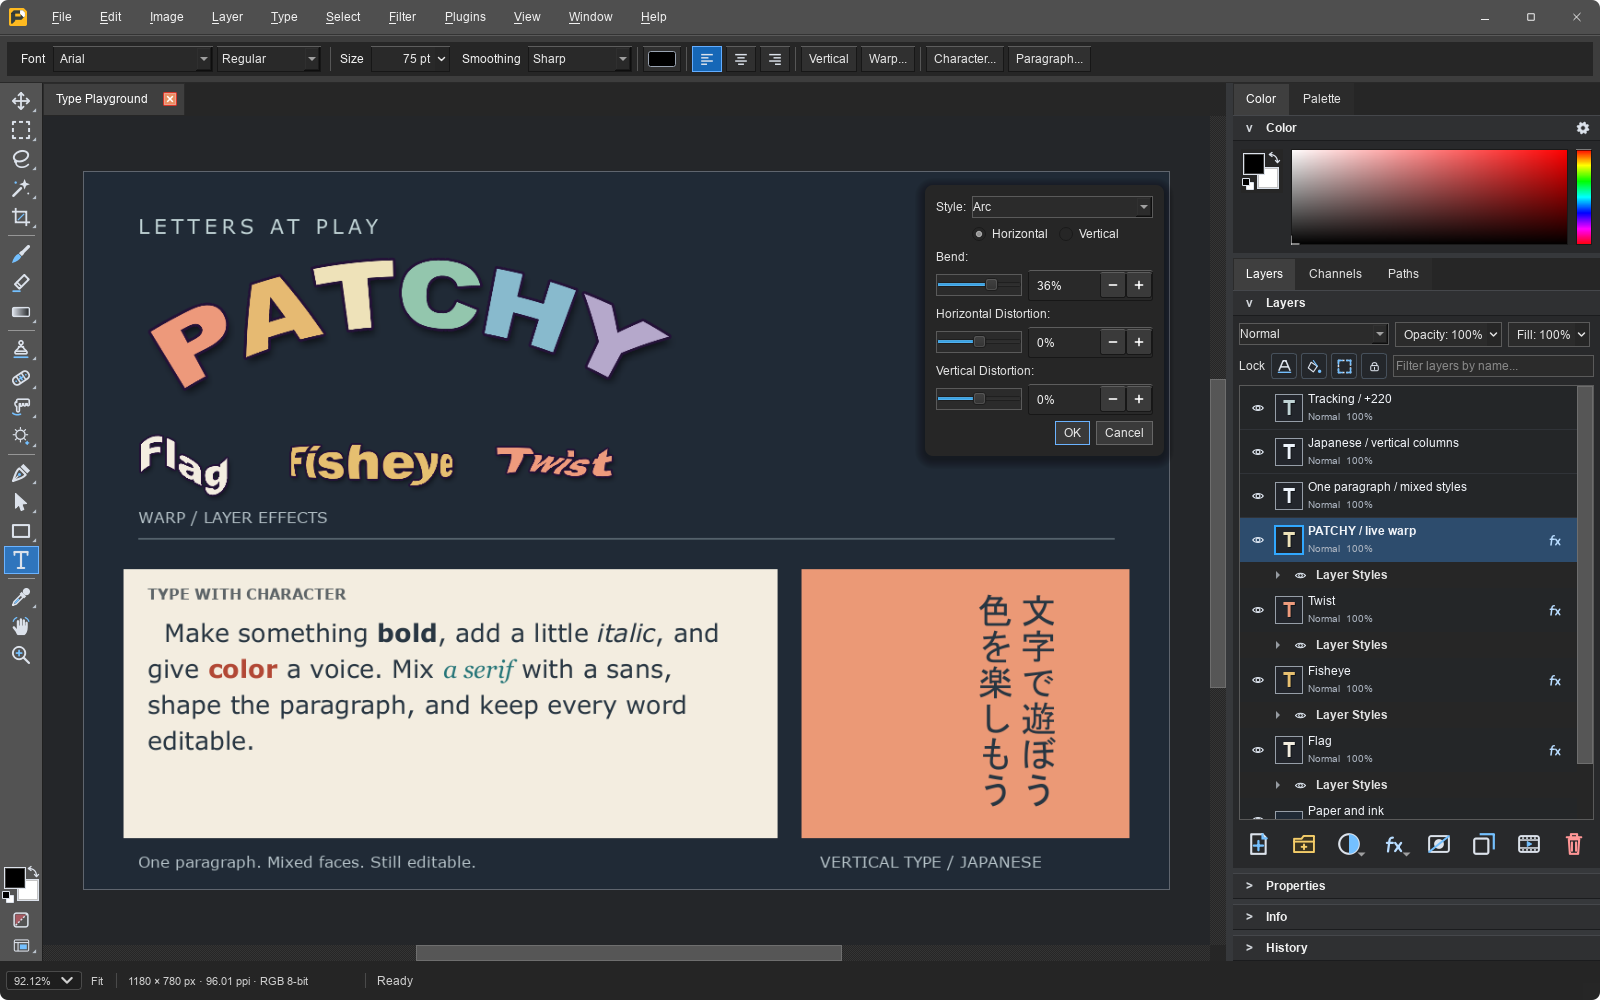
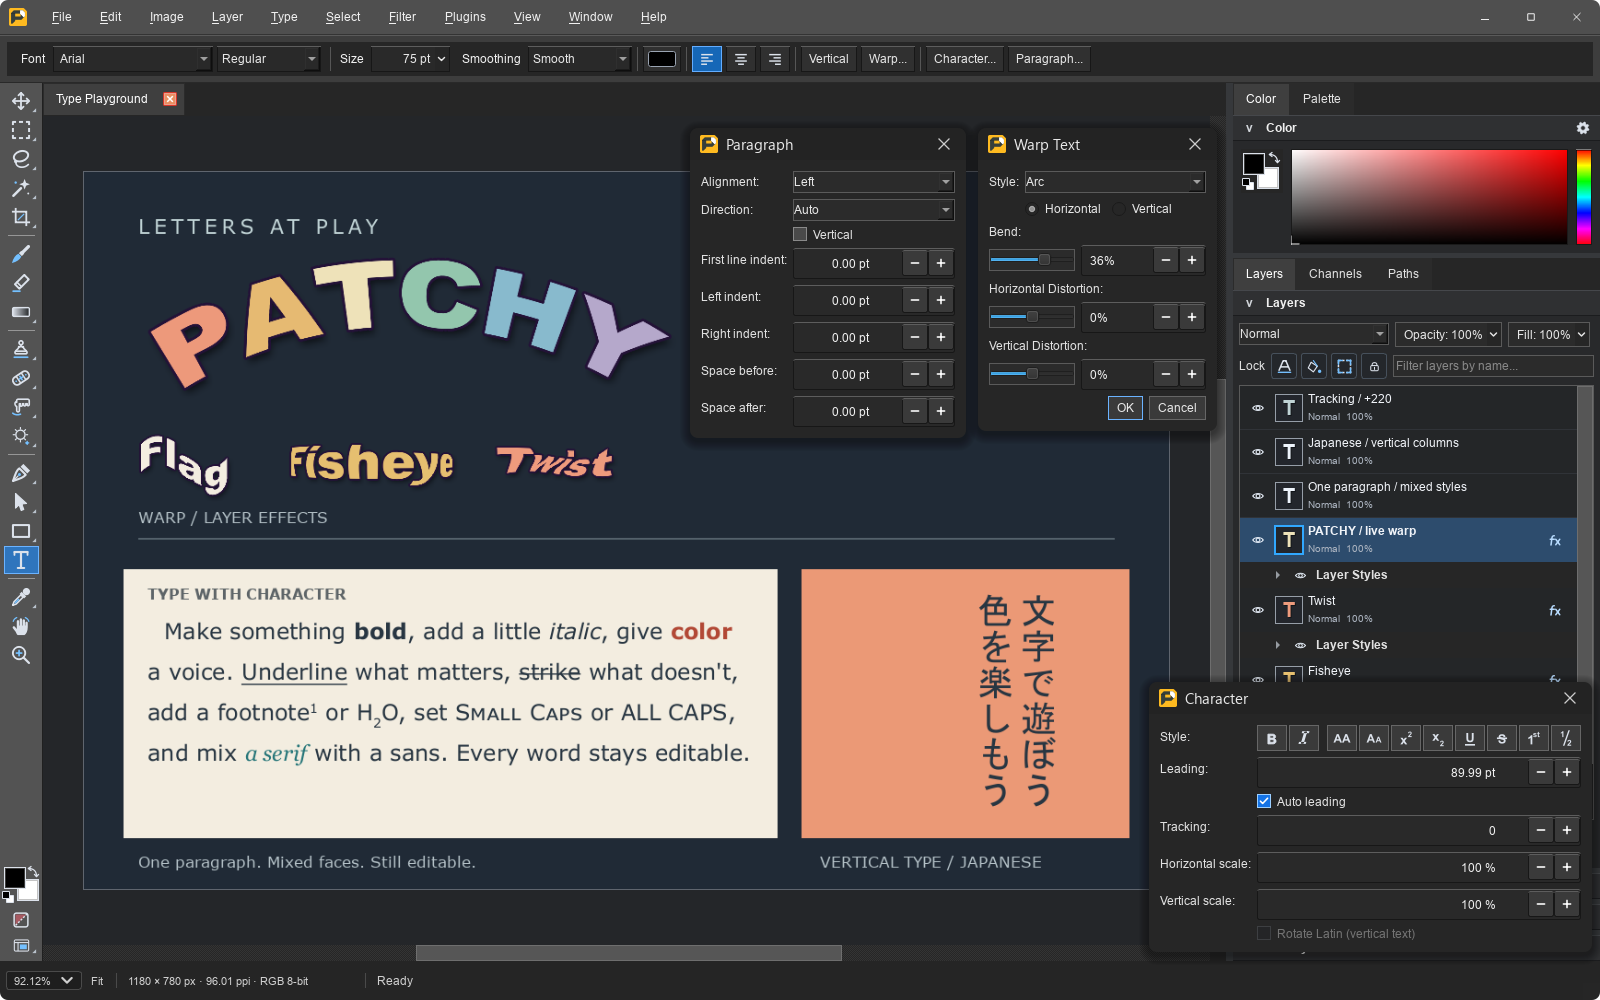
Text showcase: Character and Paragraph panels beside Warp Text, plus underline, strikethrough, scripts and caps

diff --git a/tests/ui/readme_screenshot_tests_classic.cpp b/tests/ui/readme_screenshot_tests_classic.cpp
@@ -46,6 +46,7 @@
 #include <QDoubleSpinBox>
 #include <QFont>
 #include <QFontDatabase>
+#include <QIcon>
 #include <QImage>
 #include <QLabel>
 #include <QLineEdit>
@@ -1052,8 +1053,36 @@ void shot_readme_long_shadow() {
   CHECK(captured);
 }
 
-// Live typography specimen: warped type, mixed-run paragraph text, tracking,
-// and real Japanese vertical columns, with the Warp Text controls visible.
+// A natively framed dialog grabs without its title bar, which the desktop draws. Adds the
+// dark caption Windows shows for Patchy's dialogs (app icon, title, close glyph) so the
+// overlay reads as the window people see.
+QImage readme_captioned_dialog(QWidget& dialog, const QIcon& icon) {
+  constexpr int kCaption = 32;
+  const auto content = dialog.grab().toImage();
+  QImage framed(content.width(), content.height() + kCaption, QImage::Format_ARGB32_Premultiplied);
+  const auto background = content.pixelColor(4, 4);
+  framed.fill(background.darker(108));
+  QPainter painter(&framed);
+  painter.setRenderHint(QPainter::Antialiasing, true);
+  painter.drawImage(0, kCaption, content);
+  painter.drawPixmap(10, (kCaption - 18) / 2, icon.pixmap(18, 18));
+  QFont title(QStringLiteral("Segoe UI"));
+  title.setPixelSize(15);
+  painter.setFont(title);
+  painter.setPen(QColor(232, 232, 232));
+  painter.drawText(QRect(36, 0, framed.width() - 80, kCaption), Qt::AlignVCenter | Qt::AlignLeft,
+                   dialog.windowTitle());
+  painter.setPen(QPen(QColor(205, 205, 205), 1.3));
+  const QPointF close(framed.width() - 22.0, kCaption / 2.0);
+  painter.drawLine(close + QPointF(-5, -5), close + QPointF(5, 5));
+  painter.drawLine(close + QPointF(-5, 5), close + QPointF(5, -5));
+  painter.end();
+  return framed;
+}
+
+// Live typography specimen: warped type, mixed-run paragraph text with the Character
+// panel's styles, tracking, and real Japanese vertical columns, with the Warp Text dialog
+// and the Character and Paragraph panels open.
 void shot_readme_warp_text() {
   for (const auto role : {patchy::test::TestFontRole::ArialBlack, patchy::test::TestFontRole::UiDefault,
                           patchy::test::TestFontRole::Verdana, patchy::test::TestFontRole::Georgia,
@@ -1110,30 +1139,47 @@ void shot_readme_warp_text() {
   std::string paragraph_text;
   std::vector<patchy::psd::PsdTextStyleRun> paragraph_runs;
   const auto append_run = [&](const char* text, bool bold = false, bool italic = false,
-                               patchy::RgbColor color = {0x28, 0x36, 0x42}, const char* family = "Verdana") {
+                               patchy::RgbColor color = {0x28, 0x36, 0x42}, const char* family = "Verdana",
+                               const std::function<void(patchy::psd::PsdTextStyleRun&)>& character = {}) {
     patchy::psd::PsdTextStyleRun run;
     run.start = static_cast<int>(paragraph_text.size());
     run.length = static_cast<int>(std::string_view(text).size());
     run.family = family;
-    run.size = 27;
-    run.leading = 39;
+    run.size = 24;
+    run.leading = 44;
     run.bold = bold;
     run.italic = italic;
     run.color = color;
+    if (character) character(run);
     paragraph_runs.push_back(run);
     paragraph_text += text;
   };
+  // The Character panel's styles, each on its own words: underline, strikethrough,
+  // superscript, subscript, small caps and all caps.
+  constexpr patchy::RgbColor kInk{0x28, 0x36, 0x42};
   append_run("Make something ");
   append_run("bold", true);
   append_run(", add a little ");
   append_run("italic", false, true);
-  append_run(", and give ");
+  append_run(", give ");
   append_run("color", true, false, {0xb2, 0x48, 0x35});
-  append_run(" a voice. Mix ");
+  append_run(" a voice. ");
+  append_run("Underline", false, false, kInk, "Verdana", [](auto& run) { run.underline = true; });
+  append_run(" what matters, ");
+  append_run("strike", false, false, kInk, "Verdana", [](auto& run) { run.strikethrough = true; });
+  append_run(" what doesn't, add a footnote");
+  append_run("1", false, false, kInk, "Verdana", [](auto& run) { run.font_baseline = 1; });
+  append_run(" or H");
+  append_run("2", false, false, kInk, "Verdana", [](auto& run) { run.font_baseline = 2; });
+  append_run("O, set ");
+  append_run("Small Caps", false, false, kInk, "Verdana", [](auto& run) { run.font_caps = 1; });
+  append_run(" or ");
+  append_run("all caps", false, false, kInk, "Verdana", [](auto& run) { run.font_caps = 2; });
+  append_run(", and mix ");
   append_run("a serif", false, true, {0x26, 0x76, 0x79}, "Georgia");
-  append_run(" with a sans, shape the paragraph, and keep every word editable.");
+  append_run(" with a sans. Every word stays editable.");
   const auto paragraph_id = add_readme_warp_text_layer(built, "One paragraph / mixed styles", 70, 490,
-      paragraph_text, patchy::psd::serialize_patchy_text_runs(paragraph_runs), 27, "#283642", 0, 0, 0);
+      paragraph_text, patchy::psd::serialize_patchy_text_runs(paragraph_runs), 24, "#283642", 0, 0, 0);
   auto* paragraph = built.find_layer(paragraph_id);
   CHECK(paragraph != nullptr);
   paragraph->layer_style().strokes.clear();
@@ -1207,32 +1253,64 @@ void shot_readme_warp_text() {
   require_canvas(window)->document_changed();
   require_action(window, "viewFitOnScreenAction")->trigger();
   QApplication::processEvents();
+  // The Character and Paragraph panels open first and show the headline's settings beside
+  // the Warp Text dialog. Each panel runs its own non-modal loop (run_non_modal_dialog), so
+  // the next window opens from a timer inside the previous one's loop, and each closes as
+  // the loops unwind.
+  auto* character_button = window.findChild<QPushButton*>(QStringLiteral("textCharacterButton"));
+  auto* paragraph_button = window.findChild<QPushButton*>(QStringLiteral("textParagraphButton"));
+  CHECK(character_button != nullptr && character_button->isVisible());
+  CHECK(paragraph_button != nullptr && paragraph_button->isVisible());
   bool captured = false;
   std::exception_ptr error;
-  QTimer::singleShot(0, [&] {
+  const auto capture = [&] {
     auto* dialog = find_top_level_dialog(QStringLiteral("warpTextDialog"));
     try {
-      CHECK(dialog != nullptr);
+      auto* character = find_top_level_dialog(QStringLiteral("textCharacterDialog"));
+      auto* paragraph_panel = find_top_level_dialog(QStringLiteral("textParagraphDialog"));
+      CHECK(dialog != nullptr && character != nullptr && paragraph_panel != nullptr);
+      CHECK(character->isVisible() && paragraph_panel->isVisible());
       auto* style_combo = dialog->findChild<QComboBox*>(QStringLiteral("warpTextStyleCombo"));
       auto* bend_spin = dialog->findChild<QSpinBox*>(QStringLiteral("warpTextBendSpin"));
       CHECK(style_combo != nullptr && bend_spin != nullptr);
       style_combo->setCurrentIndex(style_combo->findData(QStringLiteral("warpArc")));
       bend_spin->setValue(36);
       process_events_for(300);
-      const QPoint dialog_offset(925, 185);
-      dialog->move(window.geometry().topLeft() + dialog_offset);
-      QApplication::processEvents();
       reset_readme_status_bar(window);
+      const auto icon = window.windowIcon();
+      const auto paragraph_image = readme_captioned_dialog(*paragraph_panel, icon);
+      const auto warp_image = readme_captioned_dialog(*dialog, icon);
+      const auto character_image = readme_captioned_dialog(*character, icon);
+      // Paragraph and Warp Text side by side in the empty canvas right of the headline;
+      // Character over the lower Layers rows, leaving the text layers above it in view.
+      const QPoint paragraph_offset(690, 128);
+      const QPoint warp_offset(paragraph_offset.x() + paragraph_image.width() + 12, 128);
+      const QPoint character_offset(window.width() - character_image.width() - 8,
+                                    window.height() - character_image.height() - 48);
       auto base = window.grab().toImage();
-      draw_readme_overlay(base, dialog->grab().toImage(), dialog_offset);
+      draw_readme_overlay(base, paragraph_image, paragraph_offset);
+      draw_readme_overlay(base, character_image, character_offset);
+      draw_readme_overlay(base, warp_image, warp_offset);
       save_readme_shot("shot_readme_warp_text", base);
       captured = true;
     } catch (...) {
       error = std::current_exception();
     }
     if (dialog != nullptr) dialog->reject();
+  };
+  QTimer::singleShot(0, [&] {
+    // Inside the Character panel's loop.
+    QTimer::singleShot(0, [&] {
+      // Inside the Paragraph panel's loop: Warp Text is modal and returns once captured.
+      QTimer::singleShot(0, capture);
+      patchy::ui::MainWindowTestAccess::request_warp_text_dialog(window);
+      if (auto* panel = find_top_level_dialog(QStringLiteral("textParagraphDialog")); panel != nullptr) panel->reject();
+    });
+    paragraph_button->click();
+    if (auto* panel = find_top_level_dialog(QStringLiteral("textCharacterDialog")); panel != nullptr) panel->reject();
   });
-  patchy::ui::MainWindowTestAccess::request_warp_text_dialog(window);
+  character_button->click();
+  QApplication::processEvents();
   if (error) std::rethrow_exception(error);
   CHECK(captured);
 }

diff --git a/README.md b/README.md
@@ -129,7 +129,7 @@ See it in action.  Click an image for the full-size capture.
     <td valign="top" width="50%"><a href="docs/images/screenshots/vector_tools.png"><img src="docs/images/screenshots/vector_tools.png" width="460" alt="Editable paths, gradient and pattern paint, dashed strokes, rounded corners, and a Paths panel."></a><br><strong>Edit the paths</strong><br>Editable paths, gradient and pattern paint, dashed strokes, rounded corners, and a Paths panel.</td>
   </tr>
   <tr>
-    <td valign="top" width="50%"><a href="docs/images/screenshots/warp_text.png"><img src="docs/images/screenshots/warp_text.png" width="460" alt="Editable warped text, a paragraph with inline bold, italic, color and mixed fonts, tracked lettering, and vertical Japanese columns."></a><br><strong>Give type its own voice</strong><br>Warped text, mixed fonts and styles in one paragraph, letter spacing, and vertical Japanese.</td>
+    <td valign="top" width="50%"><a href="docs/images/screenshots/warp_text.png"><img src="docs/images/screenshots/warp_text.png" width="460" alt="Editable warped text with the Warp Text dialog and the Character and Paragraph panels open, a paragraph with bold, italic, color, underline, strikethrough, superscript, subscript, small caps and mixed fonts, tracked lettering, and vertical Japanese columns."></a><br><strong>Give type its own voice</strong><br>Warped text, mixed fonts and styles in one paragraph (underline, strikethrough, super and subscript, small caps), letter spacing, and vertical Japanese.</td>
     <td valign="top" width="50%"><a href="docs/images/screenshots/tilt_shift.png"><img src="docs/images/screenshots/tilt_shift.png" width="460" alt="Tilt-Shift Blur with on-image controls and live preview in the Filter Gallery."></a><br><strong>Shape the focus</strong><br>Comes with many filters and a filter gallery, like Tilt-Shift Blur with live previews.</td>
   </tr>
   <tr>

diff --git a/docs/screenshots.md b/docs/screenshots.md
@@ -45,8 +45,8 @@ Click any image to inspect it at full size. These are captures of the real edito
       <br><sub>Trace Image to Shapes turns any image into editable vector shape layers, with Illustrator-style presets and a live traced preview</sub>
     </td>
 <td align="center" valign="top" width="50%">
-      <a href="images/screenshots/warp_text.png"><img src="images/screenshots/warp_text.png" width="430" alt="Type Playground with live warp controls, inline bold, italic and color in one paragraph, mixed fonts, tracked lettering, and vertical Japanese text"></a>
-      <br><sub>Live Warp Text, rich paragraph styling, letter spacing, and Japanese vertical columns, kept as editable text layers</sub>
+      <a href="images/screenshots/warp_text.png"><img src="images/screenshots/warp_text.png" width="430" alt="Type Playground with the Warp Text dialog and the Character and Paragraph panels open, a paragraph with bold, italic, color, underline, strikethrough, superscript, subscript, small caps and all caps, warped words, tracked lettering, and vertical Japanese text"></a>
+      <br><sub>Live Warp Text with the Character and Paragraph panels; one paragraph mixes bold, italic, color, underline, strikethrough, superscript, subscript, small caps and all caps, beside letter spacing and Japanese vertical columns, all editable text layers</sub>
     </td>
 </tr>
 <tr>

diff --git a/docs/readme-showcase.md b/docs/readme-showcase.md
@@ -146,8 +146,13 @@ steeply foreshortened plane samples a coarse mip level and blurs the art (a firs
 the Havana street's right-hand wall did). Use real CC0 photos here, never generated ones.
 
 The text showcase combines a live Warp Text preview with three warped words,
-a single boxed paragraph containing bold, italic, colored, and mixed-font runs,
-a tracked heading, and two Japanese vertical columns. The sample reads
+a single boxed paragraph containing bold, italic, colored, and mixed-font runs plus the
+Character panel's underline, strikethrough, superscript, subscript, small caps and all caps,
+a tracked heading, and two Japanese vertical columns. The Character and Paragraph panels
+open before Warp Text; each runs a nested non-modal loop (`run_non_modal_dialog`), so the
+scene opens each window from a timer inside the previous one's loop. Their native title
+bars are not part of a widget grab, so `readme_captioned_dialog` draws the dark caption
+(icon, title, close glyph) the desktop shows. The sample reads
 "Let's play with letters / Let's enjoy color." Every sample is an editable
 type layer. The scene registers its Latin and Japanese test fonts and reports
 a skip if no Japanese family is available; it never publishes missing-glyph boxes.
